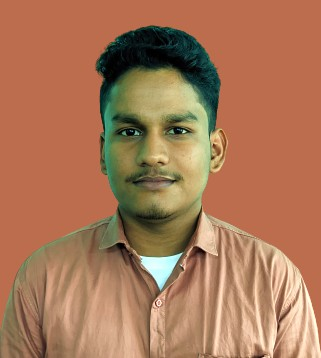
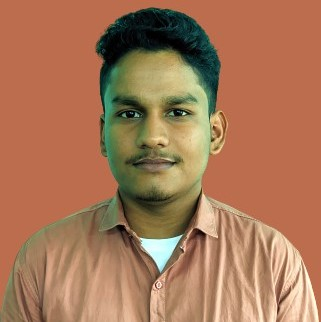
changed testimonials ui

diff --git a/src/pages/Testimonials.js b/src/pages/Testimonials.js
@@ -2,14 +2,20 @@ import React from "react";
 import nitin from "../assets/nitin.jpg";
 import girl1 from "../assets/girl1.jpg";
 import girl2 from "../assets/girl2.png";
+import Resume from "../components/Resume";
 
 const Testimonials = () => {
   return (
     <div className="pt-5 mt-5 container container-fluid">
-      <div className="card mb-3">
+      <Resume />
+      <div className="card mb-4">
         <div className="row g-0">
-          <div className="col-md-4">
-            <img src={nitin} className="img-fluid rounded-start" alt="..." />
+          <div className="col-sm-1 col-md-4 m-auto text-center">
+            <img
+              src={nitin}
+              className="img-fluid rounded-circle m-auto"
+              alt="nitin"
+            />
           </div>
           <div className="col-md-8">
             <div className="card-body">
@@ -20,7 +26,7 @@ const Testimonials = () => {
                   target="_blank"
                   rel="noopener noreferrer"
                 >
-                  <i className="bi bi-box-arrow-up-right"></i>
+                  <i className="bi bi-linkedin"></i>
                 </a>
               </h5>
               <p className="card-text fs-4">
@@ -32,84 +38,154 @@ const Testimonials = () => {
                 main goal.
               </p>
               <p className="card-text text-body-secondary fs-5">
-                Posted on 11 May 2023
+                - Posted on 11 May 2023
               </p>
             </div>
           </div>
         </div>
       </div>
-      <div className="row row-cols-1 row-cols-md-2">
+      <div className="row row-cols-1 row-cols-md-2 g-4 mb-5">
         <div className="col">
-          <div className="card mb-3">
-            <div className="row g-0">
-              <div className="col-md-4 ">
-                <img
-                  src={girl1}
-                  className="img-fluid rounded-start"
-                  alt="diksha_dubey"
-                />
-              </div>
-              <div className="col-md-8">
-                <div className="card-body">
-                  <h5 className="card-title">
-                    Diksha Dubey{" "}
-                    <a
-                      href="https://www.linkedin.com/in/diksha-dubey-49a938209"
-                      target="_blank"
-                      rel="noopener noreferrer"
-                    >
-                      <i className="bi bi-box-arrow-up-right"></i>
-                    </a>
-                  </h5>
-                  <p className="card-text">
-                    Very friendly in nature. Can work very nicely in team. Help
-                    to understand concept while working in team. Help others in
-                    team to grow with his own growth. Inspire other people to
-                    work better.
-                  </p>
-                  <p className="card-text">
-                    <small className="text-body-secondary">
-                      Posted on 12 May 2023
-                    </small>
-                  </p>
-                </div>
-              </div>
+          <div className="card h-100">
+            <div className="card-body">
+              <h5 className="card-title fs-3">
+                <i className="bi bi-person-circle"></i> Diksha Dubey{" "}
+                <a
+                  href="https://www.linkedin.com/in/diksha-dubey-49a938209"
+                  target="_blank"
+                  rel="noopener noreferrer"
+                >
+                  <i className="bi bi-linkedin"></i>
+                </a>
+              </h5>
+              <p className="card-text fs-5">
+                Mukesh is Very friendly in nature. He can work very nicely in a
+                team. He helps to understand concept while working in a team. He
+                helps others in team to grow with his own growth. He inspires
+                other people to work better.
+              </p>
+              <p className="card-text text-body-secondary fs-6">
+                - Posted on 12 May 2023
+              </p>
             </div>
           </div>
         </div>
         <div className="col">
-          <div className="card mb-3">
-            <div className="row g-0">
-              <div className="col-md-4">
-                <img
-                  src={girl2}
-                  className="img-fluid rounded-start"
-                  alt="shweta_jadhav"
-                />
-              </div>
-              <div className="col-md-8">
-                <div className="card-body">
-                  <h5 className="card-title">
-                    Shweta Jadhav{" "}
-                    <a
-                      href="https://www.linkedin.com/in/shweta-jadhav-b5784b241"
-                      target="_blank"
-                      rel="noopener noreferrer"
-                    >
-                      <i className="bi bi-box-arrow-up-right"></i>
-                    </a>
-                  </h5>
-                  <p className="card-text">
-                    Mukesh is an exceptional web developer who possesses all the
-                    skills one would want in an excellent software developer.
-                  </p>
-                  <p className="card-text">
-                    <small className="text-body-secondary">
-                      Posted on 12 May 2023
-                    </small>
-                  </p>
-                </div>
-              </div>
+          <div className="card h-100">
+            <div className="card-body">
+              <h5 className="card-title fs-3">
+                <i className="bi bi-person-circle"></i> Shweta Jadhav{" "}
+                <a
+                  href="https://www.linkedin.com/in/shweta-jadhav-b5784b241"
+                  target="_blank"
+                  rel="noopener noreferrer"
+                >
+                  <i className="bi bi-linkedin"></i>
+                </a>
+              </h5>
+              <p className="card-text fs-5">
+                Mukesh is an exceptional web developer who possesses all the
+                skills one would want in an excellent software developer.
+              </p>
+              <p className="card-text text-body-secondary fs-6">
+                - Posted on 12 May 2023
+              </p>
+            </div>
+          </div>
+        </div>
+        <div className="col">
+          <div className="card h-100">
+            <div className="card-body">
+              <h5 className="card-title fs-3">
+                <i className="bi bi-person-circle"></i> Rituraj Roj{" "}
+                <a
+                  href="https://www.linkedin.com/in/rituraj421"
+                  target="_blank"
+                  rel="noopener noreferrer"
+                >
+                  <i className="bi bi-linkedin"></i>
+                </a>
+              </h5>
+              <p className="card-text fs-5">
+                Working with Mukesh was so friendly as well as professional at
+                the same time. Looking forward to work with you again.
+              </p>
+              <p className="card-text text-body-secondary fs-6">
+                - Posted on 12 May 2023
+              </p>
+            </div>
+          </div>
+        </div>
+        <div className="col">
+          <div className="card h-100">
+            <div className="card-body">
+              <h5 className="card-title fs-3">
+                <i className="bi bi-person-circle"></i> Reshma Yadav{" "}
+                <a
+                  href="https://www.linkedin.com/in/reshu-yadav-556249252"
+                  target="_blank"
+                  rel="noopener noreferrer"
+                >
+                  <i className="bi bi-linkedin"></i>
+                </a>
+              </h5>
+              <p className="card-text fs-5">
+                Having worked with Mukesh for three years, I have to say he is
+                an excellent professional. He helped me understand the project
+                management process and introduced me to useful tools. I am
+                impressed with his work ethic and communication skills.
+              </p>
+              <p className="card-text text-body-secondary fs-6">
+                - Posted on 13 May 2023
+              </p>
+            </div>
+          </div>
+        </div>
+        <div className="col">
+          <div className="card h-100">
+            <div className="card-body">
+              <h5 className="card-title fs-3">
+                <i className="bi bi-person-circle"></i> Anjumaara Ansari{" "}
+                <a
+                  href="https://www.linkedin.com/in/anjumaara-ansari-8035a9246"
+                  target="_blank"
+                  rel="noopener noreferrer"
+                >
+                  <i className="bi bi-linkedin"></i>
+                </a>
+              </h5>
+              <p className="card-text fs-5">
+                Mukesh is a very hardworking person and can easily tackle web
+                problems. We have worked together on several projects, and he is
+                a very skilled and dedicated professional. His expertise in the
+                web development field has helped us a lot! I highly recommend
+                him to anyone.
+              </p>
+              <p className="card-text text-body-secondary fs-6">
+                - Posted on 13 May 2023
+              </p>
+            </div>
+          </div>
+        </div>
+        <div className="col">
+          <div className="card h-100">
+            <div className="card-body">
+              <h5 className="card-title fs-3">
+                <i className="bi bi-person-circle"></i> Aman Sharma{" "}
+                <a
+                  href="https://www.linkedin.com/in/aman-sharma-1292001"
+                  target="_blank"
+                  rel="noopener noreferrer"
+                >
+                  <i className="bi bi-linkedin"></i>
+                </a>
+              </h5>
+              <p className="card-text fs-5">
+                Mukesh is best in Front-End design and clean UI.
+              </p>
+              <p className="card-text text-body-secondary fs-6">
+                - Posted on 13 May 2023
+              </p>
             </div>
           </div>
         </div>

diff --git a/src/pages/Home.js b/src/pages/Home.js
@@ -64,7 +64,7 @@ const Home = () => {
           </div>
         </div>
       </div>
-      <div className="container container-fluid">
+      <div className="container container-fluid mb-5">
         <div className="row row-cols-1 row-cols-md-2">
           <div className="col">
             <h1 className="text-center mb-4">Languages</h1>
@@ -149,25 +149,25 @@ const Home = () => {
             <h1 className="text-center mb-4">Interests</h1>
             <div className="d-flex flex-wrap justify-content-between">
               <div className="card mb-3 p-2 me-2">
-                <h5 className="card-title">Coding</h5>
+                <h5 className="card-title">👨🏾💻 Coding</h5>
               </div>
               <div className="card mb-3 p-2 me-2">
-                <h5 className="card-title">Music</h5>
+                <h5 className="card-title">🎧 Music</h5>
               </div>
               <div className="card mb-3 p-2 me-2">
-                <h5 className="card-title">Chess</h5>
+                <h5 className="card-title">♟ Chess</h5>
               </div>
               <div className="card mb-3 p-2 me-2">
-                <h5 className="card-title">Cricket</h5>
+                <h5 className="card-title">🏏 Cricket</h5>
               </div>
               <div className="card mb-3 p-2 me-2">
-                <h5 className="card-title">Football</h5>
+                <h5 className="card-title">⚽ Football</h5>
               </div>
               <div className="card mb-3 p-2 me-2">
-                <h5 className="card-title">Carrom</h5>
+                <h5 className="card-title">⭕ Carrom</h5>
               </div>
               <div className="card mb-3 p-2 me-2">
-                <h5 className="card-title">Movies</h5>
+                <h5 className="card-title">🎥 Movies</h5>
               </div>
             </div>
           </div>
